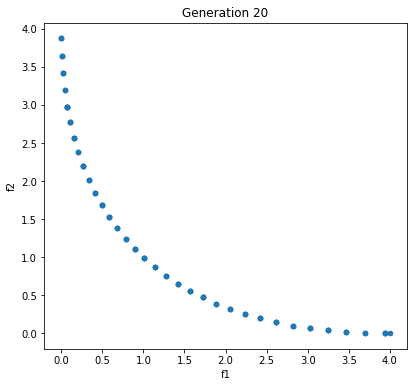
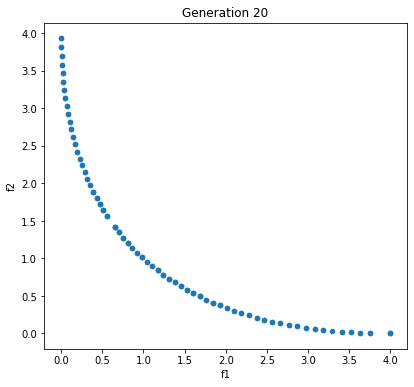
Updated information section of the tests

diff --git a/Tests/SCH.py b/Tests/SCH.py
@@ -1,8 +1,3 @@
-import os#, sys
-#sys.path.append(os.path.join(os.getcwd(),"SWATnsga2Libs")) #Use this if you do not want to install library
-
-
-
 
 #-------------------------------------------------------------------------------
 # Name:        NSGA-II
@@ -18,6 +13,7 @@ import os#, sys
 
 
 import os
+#sys.path.append(os.path.join(os.getcwd(),"SWATnsga2Libs")) #Use this if you do not want to install library
 from nsga2lib import nsga2, nsga2utilities
 
 HERE = os.path.dirname(os.path.realpath(__file__))
@@ -78,7 +74,7 @@ setting_dict = {'PopSize': 150,
                 'GenNumber': 20,
                 'CrossPrb': 0.9,
                 'CrossTyp': 2,
-                'Bits': 15,
+                'Bits': 16,
                 'MutPrb': 0.5,
                 'seed': 0.5,
                 'ObjFuncNum': 2,

diff --git a/Tests/ZTD2.py b/Tests/ZTD2.py
@@ -1,8 +1,3 @@
-import os#, sys
-#sys.path.append(os.path.join(os.getcwd(),"SWATnsga2Libs")) #Use this if you do not want to install library
-
-
-
 
 #-------------------------------------------------------------------------------
 # Name:        NSGA-II
@@ -18,6 +13,7 @@ import os#, sys
 
 
 import os
+#sys.path.append(os.path.join(os.getcwd(),"SWATnsga2Libs")) #Use this if you do not want to install library
 from nsga2lib import nsga2, nsga2utilities
 
 HERE = os.path.dirname(os.path.realpath(__file__))
